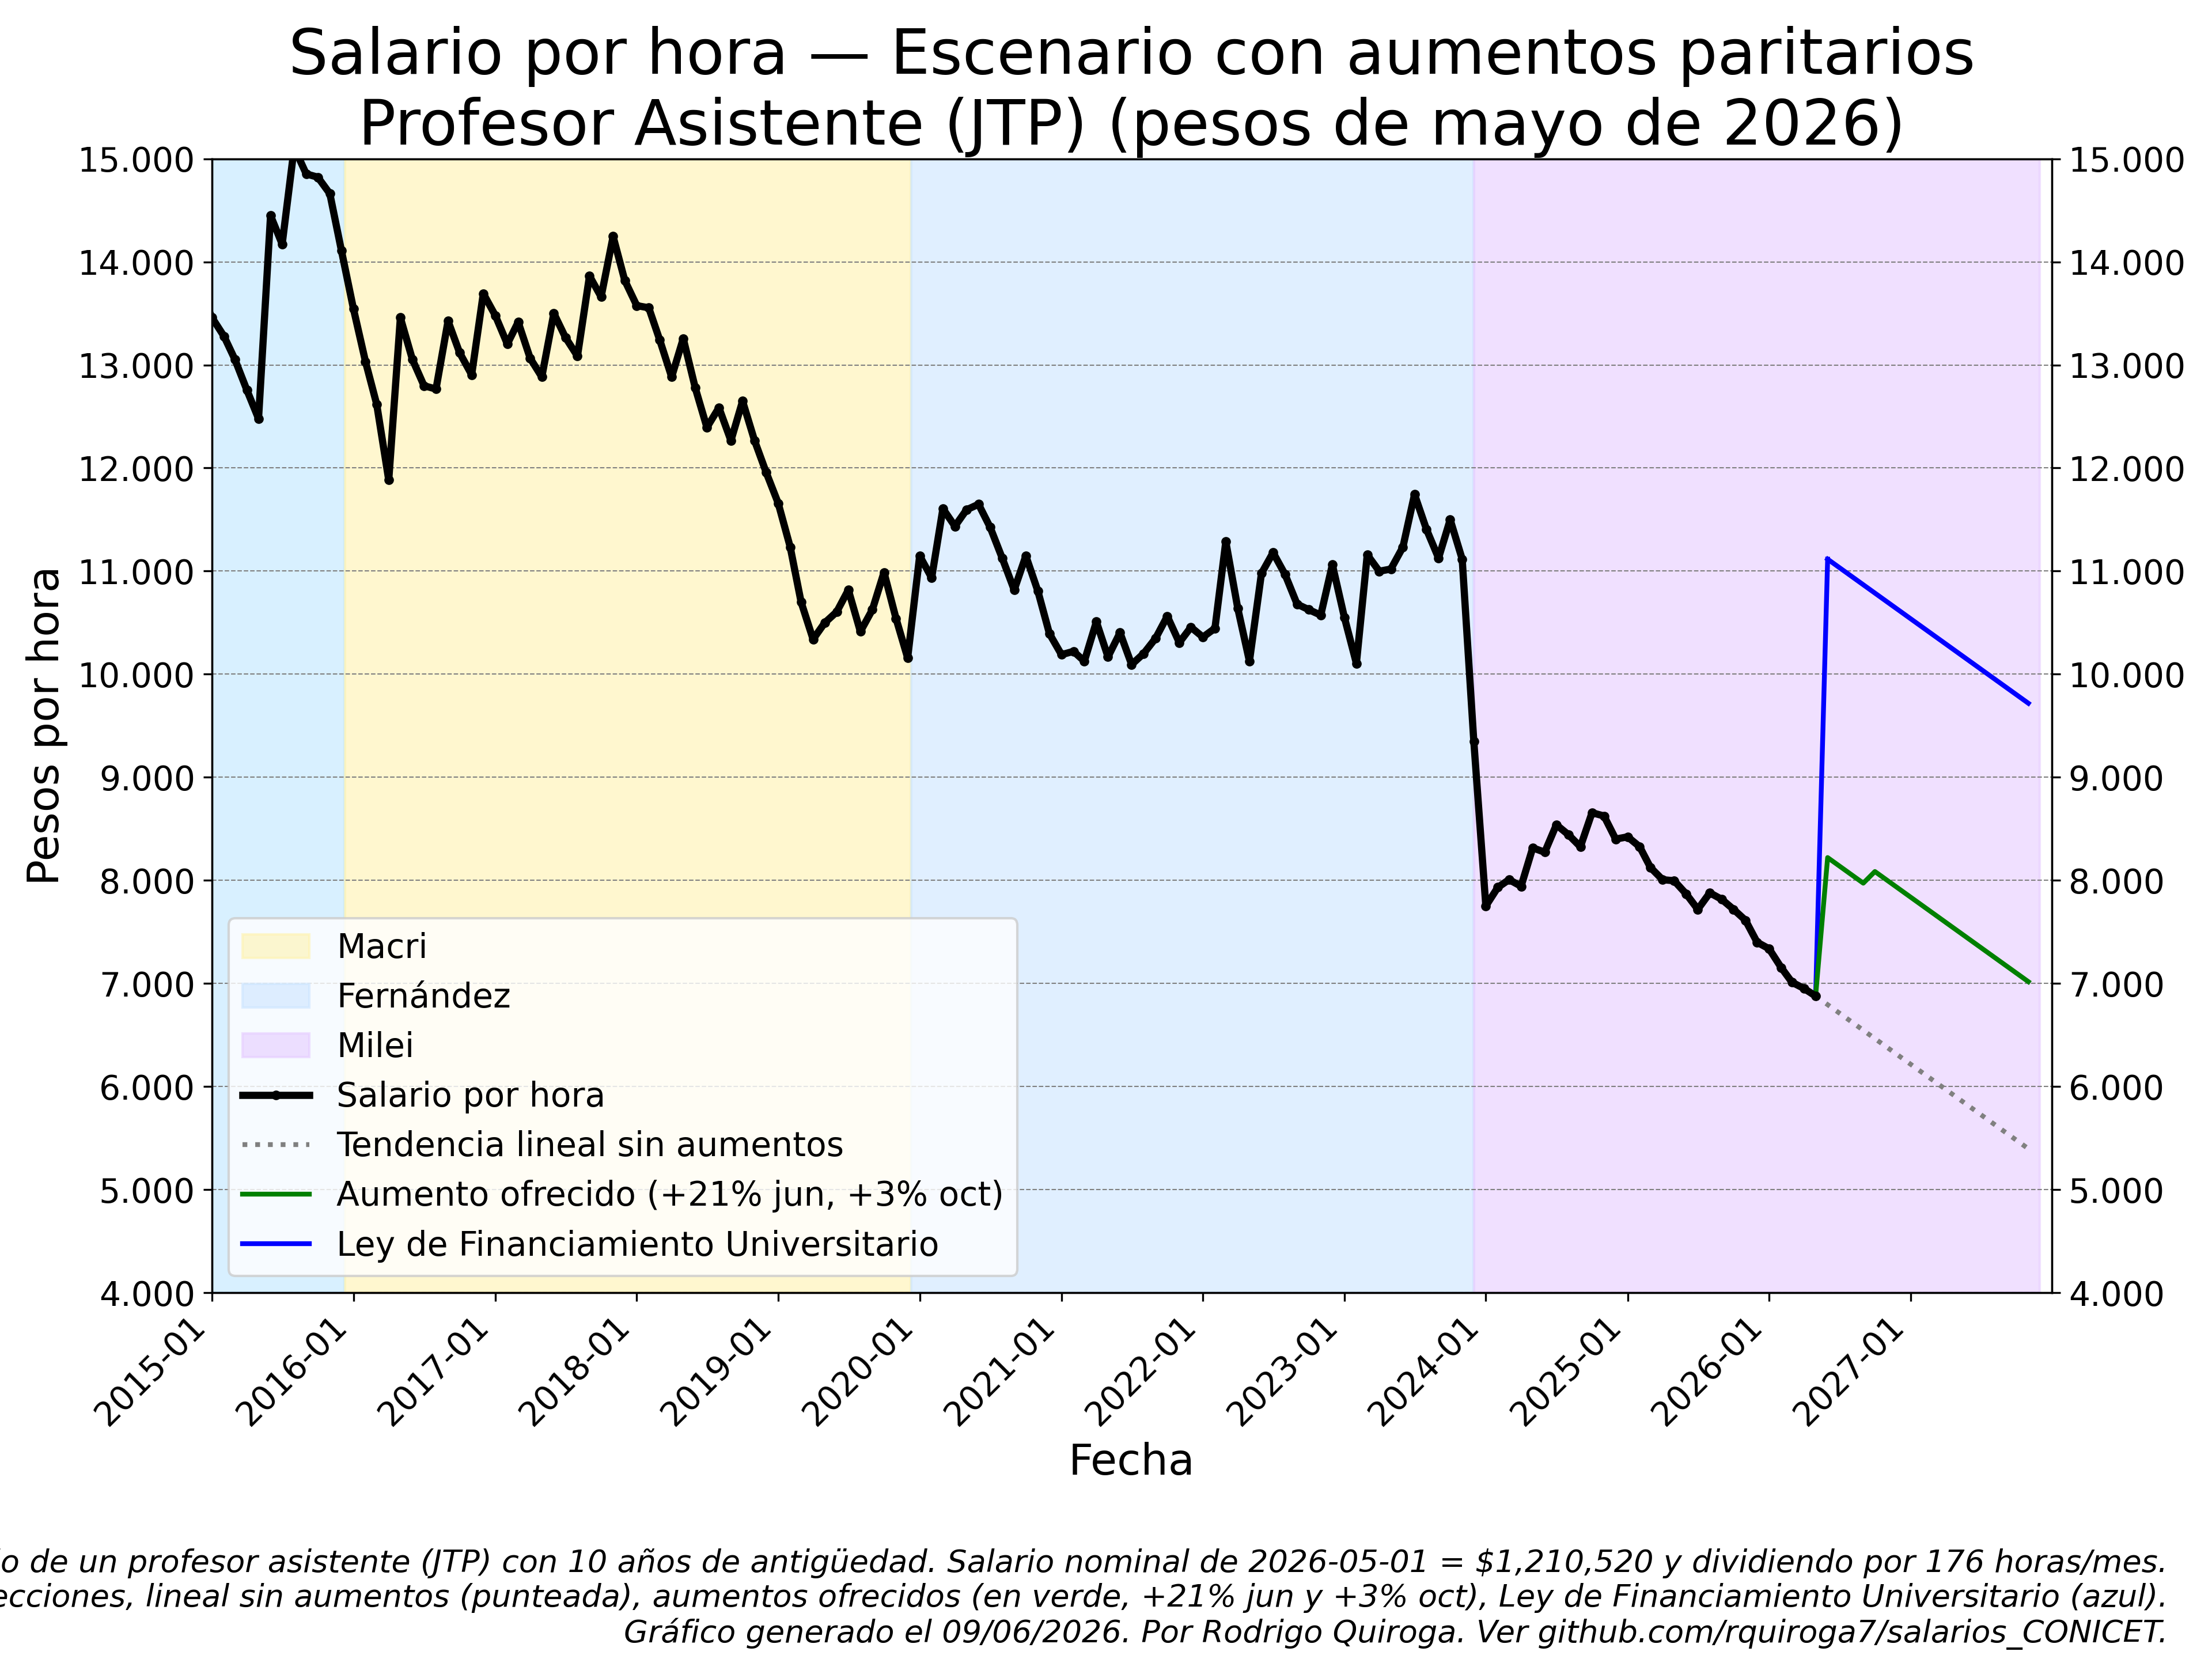
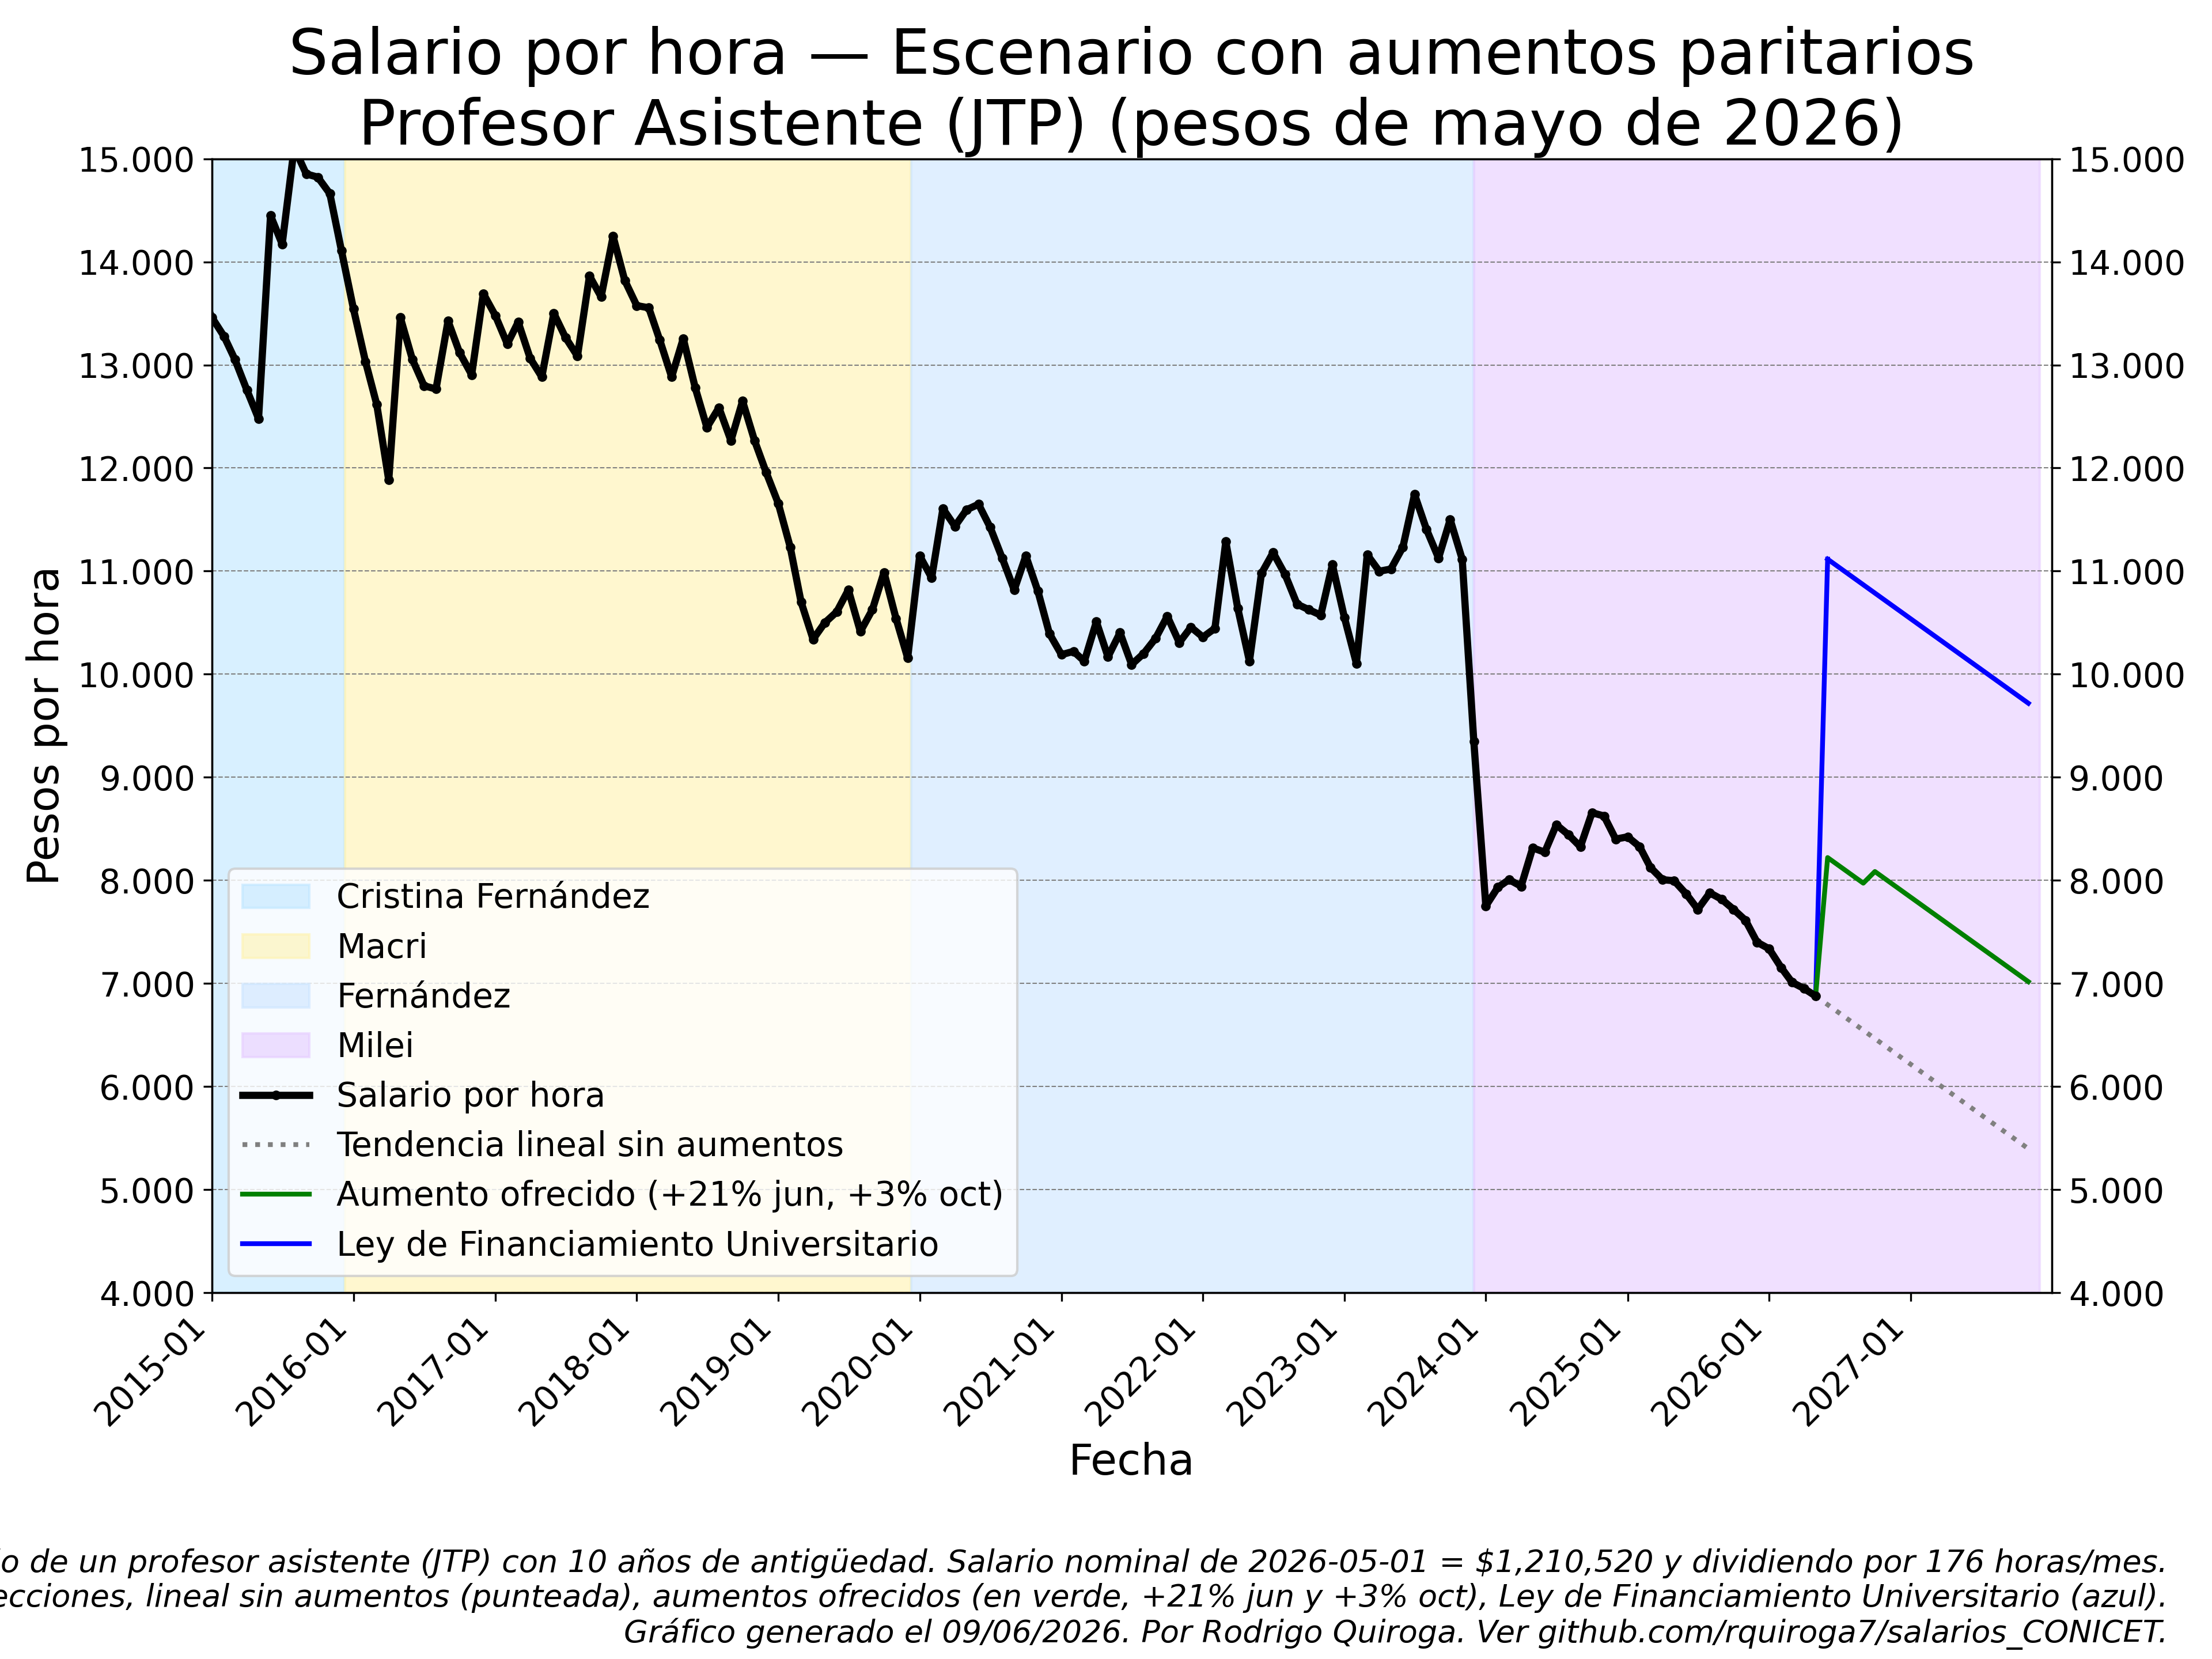
arreglo leyenda

Changed region(s): [[0.0938, 0.5, 0.4375, 0.5625]]

diff --git a/graf_cic.py b/graf_cic.py
@@ -996,7 +996,7 @@ print("Saved: plots/proy2.png")
 fig_alt3, ax_alt3 = plt.subplots(figsize=(3840/300, 2880/300), dpi=300)
 
 # Only show Macri, Fernández, Milei in legend for proy3
-legend_proy3 = {"Macri", "Fernández", "Milei"}
+legend_proy3 = {"Macri", "Cristina Fernández", "Fernández", "Milei"}
 for nombre, inicio, fin, color in periodos_proy:
     lbl = nombre if nombre in legend_proy3 else '_nolegend_'
     ax_alt3.axvspan(pd.to_datetime(inicio), pd.to_datetime(fin), color=color, alpha=0.6, zorder=0, label=lbl)